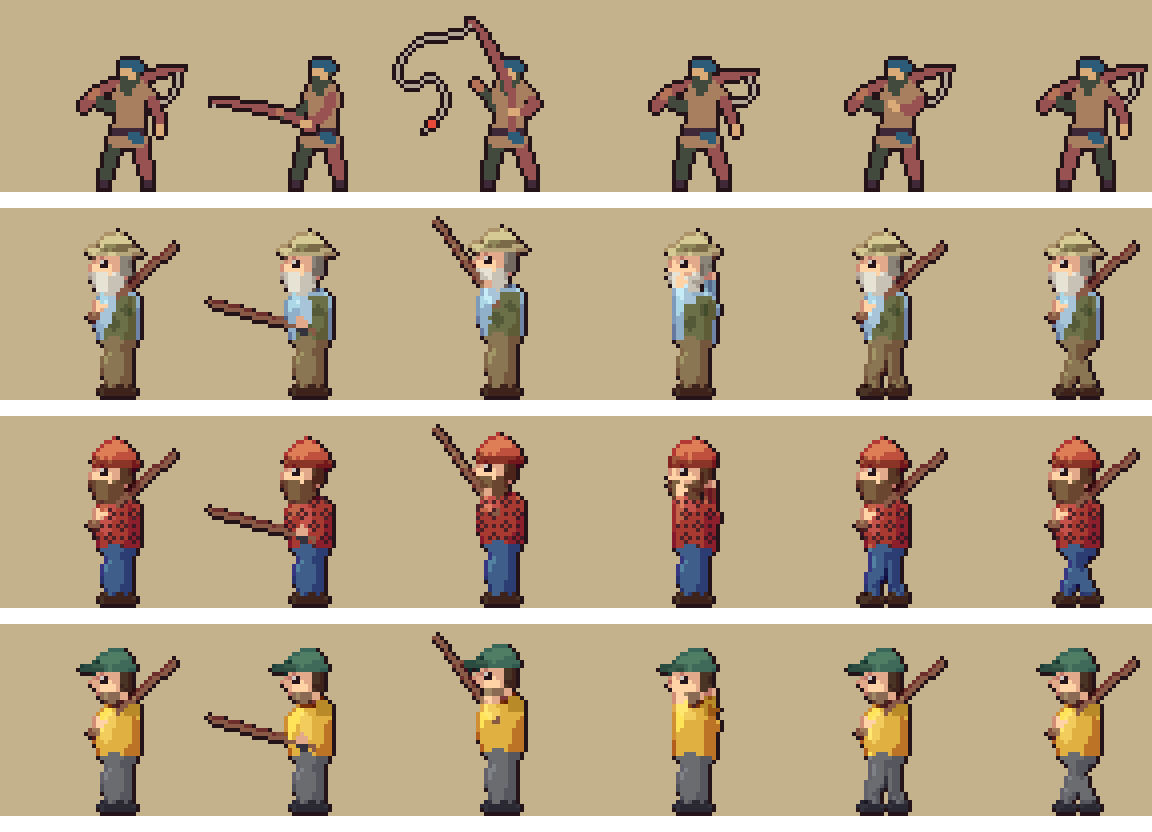
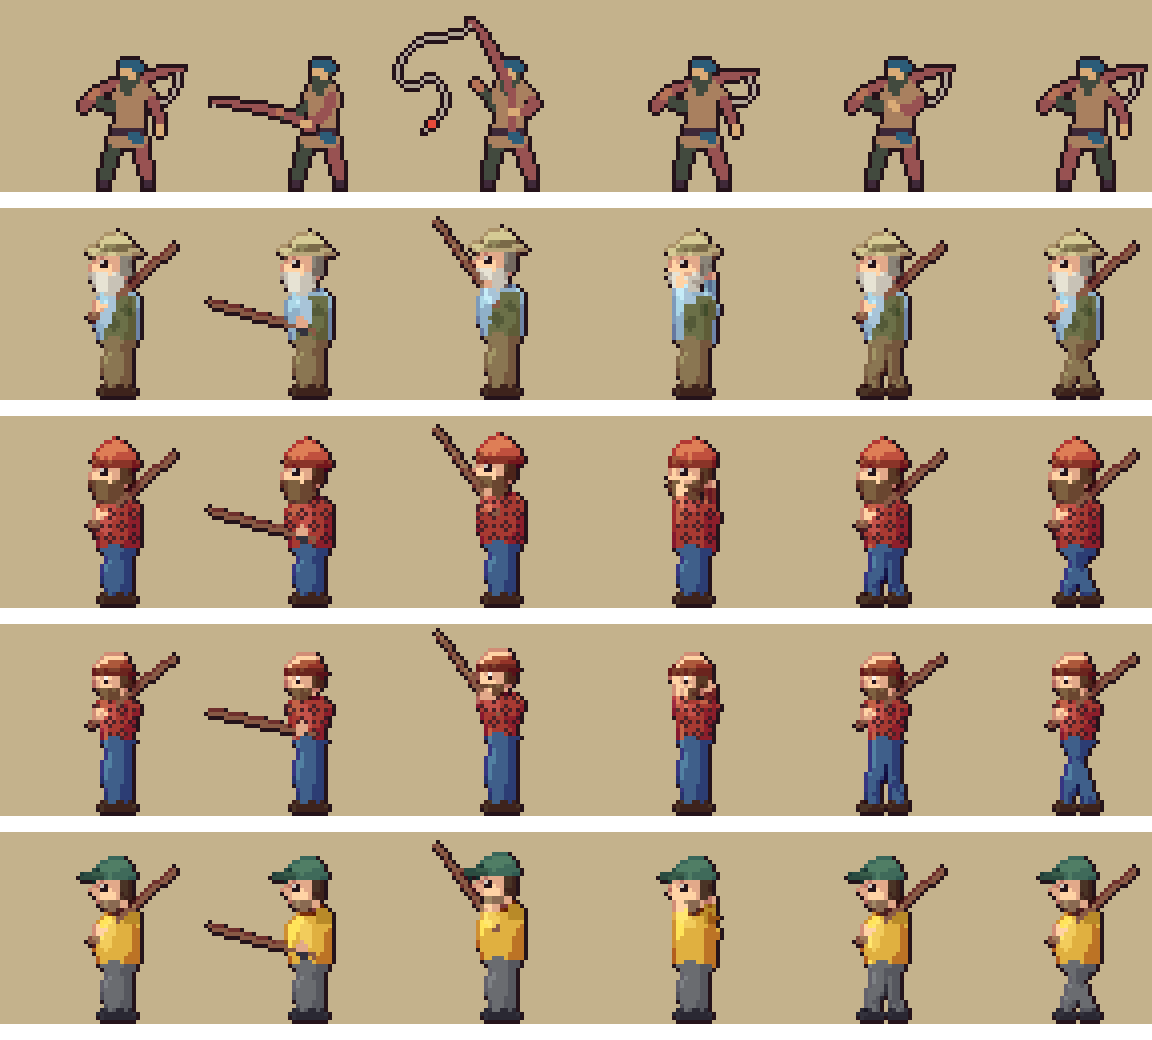
Study 11: B in realistic proportions (smaller head, broad shoulders, longer legs)
Claude-Session: https://claude.ai/code/session_01AFuv3xBDCFNHg8cxuFG86Z

diff --git a/docs/studio/review/study11.html b/docs/studio/review/study11.html
@@ -111,13 +111,28 @@ code { font-family: var(--mono); font-size: 0.85em; }
     <p class="lede">He was the last character from an art pack: a one-pixel face, his own outline and colours, a stiff stance. He's redrawn here from shapes, like the cast. His head is a little large (study 8's C), he has the cast's eye with a catchlight, and his arms and legs bend at real joints. He gets the same selective edge as the animals and is lit as one mass. The same man is rigged once and dressed three ways.</p>
   </header>
 
+  <section>
+    <span class="eyebrow">Round two</span>
+    <h2>B, in realistic proportions</h2>
+    <p>You picked B's clothes, beanie and beard, with a less round, more realistic build. Changes:</p>
+    <ol class="rules">
+      <li><b>A smaller head</b>: a fifth smaller, so he's about five heads tall instead of three and a half.</li>
+      <li><b>Broad shoulders, a narrower waist</b> instead of a barrel of a body.</li>
+      <li><b>A shorter torso over longer legs.</b></li>
+      <li><b>A closer-trimmed beard and a flatter beanie</b>, which is a darker red so it doesn't run into his face.</li>
+      <li><b>A slimmer eye</b> (one pixel wide, still with the catchlight); the cast's two-by-two eye was too big for the smaller face.</li>
+    </ol>
+    <p>Compare it with B using the buttons below.</p>
+  </section>
+
   <section class="viewer">
     <span class="eyebrow">His poses: idle, fishing, landing, hurt, walking</span>
     <div class="pick" role="group" aria-label="Version">
       <button data-v="now" aria-pressed="false">Now</button>
       <button data-v="A" aria-pressed="false">A</button>
-      <button data-v="B" aria-pressed="true">B</button>
+      <button data-v="B" aria-pressed="false">B</button>
       <button data-v="C" aria-pressed="false">C</button>
+      <button data-v="B2" aria-pressed="true">B, realistic</button>
     </div>
     <img id="shot" src="study11/B-poses.png" alt="The angler's poses, version B">
     <p class="cap" id="cap"></p>
@@ -150,7 +165,7 @@ code { font-family: var(--mono); font-size: 0.85em; }
   <section>
     <span class="eyebrow">Your call</span>
     <h2>Pick one, or mix</h2>
-    <p>Tell me A, B or C, or a mix (A's hat with B's flannel, say), and anything about his face or build. The hut comes after him.</p>
+    <p>Tell me if "B, realistic" is him, or what to push further (taller, slimmer, a bigger or smaller beard). Then he goes into the game, and the hut comes next.</p>
   </section>
 </main>
 <script>
@@ -159,9 +174,10 @@ code { font-family: var(--mono); font-size: 0.85em; }
     now: "Now: the art pack's fisherman.",
     A: "A: the old-timer: bucket hat, fishing vest, chambray shirt, khakis, grey beard.",
     B: "B: flannel and beanie: red buffalo check, knit beanie, jeans, brown beard.",
-    C: "C: rain jacket and cap: yellow jacket, ball cap, grey trousers, stubble."
+    C: "C: rain jacket and cap: yellow jacket, ball cap, grey trousers, stubble.",
+    B2: "B, realistic: B's flannel, beanie and beard on a man about five heads tall, broad-shouldered, with longer legs."
   };
-  var v = "B";
+  var v = "B2";
   var ids = ["shot", "close", "times"], kinds = ["poses", "close", "times"];
   function show() {
     ids.forEach(function (id, i) { document.getElementById(id).src = "study11/" + v + "-" + kinds[i] + ".png"; });

diff --git a/tools/studio/study_angler.py b/tools/studio/study_angler.py
@@ -46,6 +46,10 @@ OUTFITS = {
     "B": {"colours": {"S": "#a83a32", "J": "#a83a32", "j": "#4a2228", "T": "#3f5f8a", "B": "#4a3426", "H": "#c0503e",
                       "Q": "#8a3428", "A": "#5a3a26", "D": "#6a4630", "X": "#4a2228", "L": "#c4524a", "a": "#7a2a26"},
           "hat": "beanie", "check": True, "beard": "full"},
+    # study 11's pick: B's clothes, beanie and beard, in realistic proportions
+    "B2": {"colours": {"S": "#a83a32", "J": "#a83a32", "j": "#4a2228", "T": "#3f5f8a", "B": "#4a3426", "H": "#943328",
+                       "Q": "#6a241e", "A": "#5a3a26", "D": "#6a4630", "X": "#4a2228", "L": "#c4524a", "a": "#7a2a26"},
+           "hat": "beanie", "check": True, "beard": "trim", "build": "real"},
     "C": {"colours": {"S": "#e0b040", "J": "#e0b040", "j": "#b88a28", "T": "#6a6c70", "B": "#33323d", "H": "#3f6a5a",
                       "Q": "#2c4c40", "A": "#4a3426", "D": "#8a6a52", "L": "#f2cc5c", "a": "#a87c22"},
           "hat": "cap", "hood": True, "beard": "stubble"},
@@ -98,14 +102,27 @@ def draw(outfit, pose, bob=0):
     lean = p.get("lean", 0)
     c = Canvas(FW, FH)
 
+    real = o.get("build") == "real"
+
+    def tall(y):  # the realistic build: a shorter torso over longer legs
+        return (20 + (y - 20) * 0.8 - 1.2) if (real and y >= 20) else (y - 1.2 if real else y)
+
     def up(pts, k=1.0):  # the upper body: lowered by dy, leaned by lean
-        return [(x + X0 + lean * (1 - (y - 8) / 26) * k, y + dy) for x, y in pts]
+        return [(x + X0 + lean * (1 - (y - 8) / 26) * k, tall(y) + dy) for x, y in pts]
+
+    def hd(pts):  # the head and all on it; smaller about the neck in the realistic build
+        if real:
+            pts = [(23.4 + (x - 23.4) * 0.8, 19 + (y - 19) * 0.8) for x, y in pts]
+        return up(pts, 0.5)
 
     def low(pts):
         return [(x + X0, y) for x, y in pts]
 
     def leg(j):  # hip moves with the body, the foot stays put
         (hx, hy), (kx, ky), (ax, ay) = j
+        hy = tall(hy)
+        if real:
+            ky = (hy + ay) / 2 - 0.4
         return [(hx + X0, hy + dy), (kx + X0, ky + dy * 0.5), (ax + X0, ay)]
 
     # far leg and arm, behind
@@ -118,6 +135,8 @@ def draw(outfit, pose, bob=0):
         c.blob([(hx - 1, hy - 1), (hx + 1, hy - 1), (hx + 1, hy + 1), (hx - 1, hy + 1)], "K")
     # the torso
     torso = [(20, 21), (26.8, 20.4), (29.2, 23), (29, 30), (28, 34), (20.6, 34), (19.2, 30), (19.2, 24)]
+    if real:  # broad in the shoulders, narrower at the waist: a man, not a barrel
+        torso = [(19.2, 20.6), (27.4, 20), (29.4, 21.8), (28.6, 26), (27.6, 30.4), (27.8, 34), (20.8, 34), (20.6, 30), (19.6, 26)]
     c.limb(leg(p["near_leg"])[:1] + leg(p["far_leg"])[:1], [3, 3], "T")
     c.blob(up(torso), "J" if not o.get("vest") else "S")
     if o.get("vest"):
@@ -131,24 +150,28 @@ def draw(outfit, pose, bob=0):
     # the head
     head = [(19, 11), (22, 8.6), (26, 9), (27.4, 12), (27, 16.4), (24.6, 18.6), (20.6, 18.6), (18.6, 16), (18.4, 13)]
     c.blob(up(head, 0.5), "K")
-    c.blob(up([(18.2, 13.8), (17.4, 15), (18.6, 15.6)], 0.5), "K")  # nose
-    c.blob(up([(24.8, 10), (27.8, 11), (27.8, 15.4), (25.2, 16.4), (24.6, 13)], 0.5), "A", clip=True)  # hair at the back
-    if o["beard"] == "full":
-        c.blob(up([(18, 15.6), (21, 16.2), (24.8, 16), (25.4, 18.6), (22.6, 21), (19.4, 20.4), (17.8, 18)], 0.5), "D")
-        c.blob(up([(18.4, 15.8), (20.4, 15.8), (20.4, 16.6), (18.4, 16.6)], 0.5), "D")  # moustache
+    c.blob(hd([(18.2, 13.8), (17.4, 15), (18.6, 15.6)]), "K")  # nose
+    c.blob(hd([(24.8, 10), (27.8, 11), (27.8, 15.4), (25.2, 16.4), (24.6, 13)]), "A", clip=True)  # hair at the back
+    if o["beard"] == "trim":
+        c.blob(hd([(18.4, 15.8), (21, 16.4), (24.6, 16.2), (25, 18.2), (22.6, 19.6), (19.6, 19.2), (18.2, 17.6)]), "D")
+        c.blob(hd([(18.4, 15.8), (20.4, 15.8), (20.4, 16.6), (18.4, 16.6)]), "D")  # moustache
+    elif o["beard"] == "full":
+        c.blob(hd([(18, 15.6), (21, 16.2), (24.8, 16), (25.4, 18.6), (22.6, 21), (19.4, 20.4), (17.8, 18)]), "D")
+        c.blob(hd([(18.4, 15.8), (20.4, 15.8), (20.4, 16.6), (18.4, 16.6)]), "D")  # moustache
     elif o["beard"] == "stubble":
-        c.blob(up([(18.8, 16.4), (24, 16.6), (24.6, 18.4), (20.4, 18.8), (18.8, 17.6)], 0.5), "D", clip=True)
+        c.blob(hd([(18.8, 16.4), (24, 16.6), (24.6, 18.4), (20.4, 18.8), (18.8, 17.6)]), "D", clip=True)
     # the hat
     if o["hat"] == "bucket":
-        c.blob(up([(19.6, 10.4), (20.6, 6.8), (25.6, 6.4), (27.2, 9.8)], 0.5), "H")
-        c.limb(up([(17.4, 10.6), (29.4, 10.8)], 0.5), [1.6, 1.6], "H")
-        c.blob(up([(19.8, 9), (27, 8.6), (27.2, 9.8), (19.8, 10.2)], 0.5), "Q", clip=True)  # the band
+        c.blob(hd([(19.6, 10.4), (20.6, 6.8), (25.6, 6.4), (27.2, 9.8)]), "H")
+        c.limb(hd([(17.4, 10.6), (29.4, 10.8)]), [1.6, 1.6], "H")
+        c.blob(hd([(19.8, 9), (27, 8.6), (27.2, 9.8), (19.8, 10.2)]), "Q", clip=True)  # the band
     elif o["hat"] == "beanie":
-        c.blob(up([(18.8, 11.2), (19.8, 7.4), (23.6, 5.8), (27.4, 7.6), (28.2, 11.6)], 0.5), "H")
-        c.limb(up([(18.8, 11), (28, 11.4)], 0.5), [2.2, 2.2], "Q")  # the cuff
+        dome = [(18.8, 11.2), (19.8, 8.4), (23.6, 7.4), (27.4, 8.4), (28.2, 11.6)] if real else [(18.8, 11.2), (19.8, 7.4), (23.6, 5.8), (27.4, 7.6), (28.2, 11.6)]
+        c.blob(hd(dome), "H")
+        c.limb(hd([(18.8, 11), (28, 11.4)]), [2.2, 2.2], "Q")  # the cuff
     else:
-        c.blob(up([(19.4, 10.8), (20.6, 7.4), (25.4, 6.6), (28, 9.2), (28.2, 11.2)], 0.5), "H")
-        c.limb(up([(15.4, 11), (20, 10.6)], 0.5), [1.4, 1.4], "Q")  # the bill, shading his eyes
+        c.blob(hd([(19.4, 10.8), (20.6, 7.4), (25.4, 6.6), (28, 9.2), (28.2, 11.2)]), "H")
+        c.limb(hd([(15.4, 11), (20, 10.6)]), [1.4, 1.4], "Q")  # the bill, shading his eyes
     # the rod, then the near arm over it
     if p.get("rod"):
         a, b = up(p["rod"])
@@ -171,9 +194,9 @@ def draw(outfit, pose, bob=0):
                 if g[y][x] in "JL" and (x % 3 == 0 or y % 3 == 0) and (x + y) % 2 == 0:
                     g[y][x] = "X"
     # the eye, as the cast's: two by two, a catchlight top left
-    ex, ey = up([(20.4, 12.6)], 0.5)[0]
+    ex, ey = hd([(20.4, 12.6)])[0]
     ex, ey = round(ex), round(ey)
-    for xx in (ex, ex + 1):
+    for xx in ((ex,) if o.get("build") == "real" else (ex, ex + 1)):  # a slimmer eye on the smaller head
         for yy in (ey, ey + 1):
             g[yy][xx] = "E"
     g[ey][ex] = "C"

diff --git a/docs/studio/studies.md b/docs/studio/studies.md
@@ -515,6 +515,12 @@ outfits:
 
 Review page: `review/study11.html`.
 
+**Round two:** you liked B's clothes, hat and beard but found him too
+round. "B, realistic" (`B2`): the head a fifth smaller about the neck (about
+five heads tall), broad shoulders over a narrower waist, a shorter torso
+over longer legs, a trimmed beard, a flatter, darker beanie, a one-pixel
+eye with its catchlight.
+
 **Verdict:** waiting.
 
 <!--
